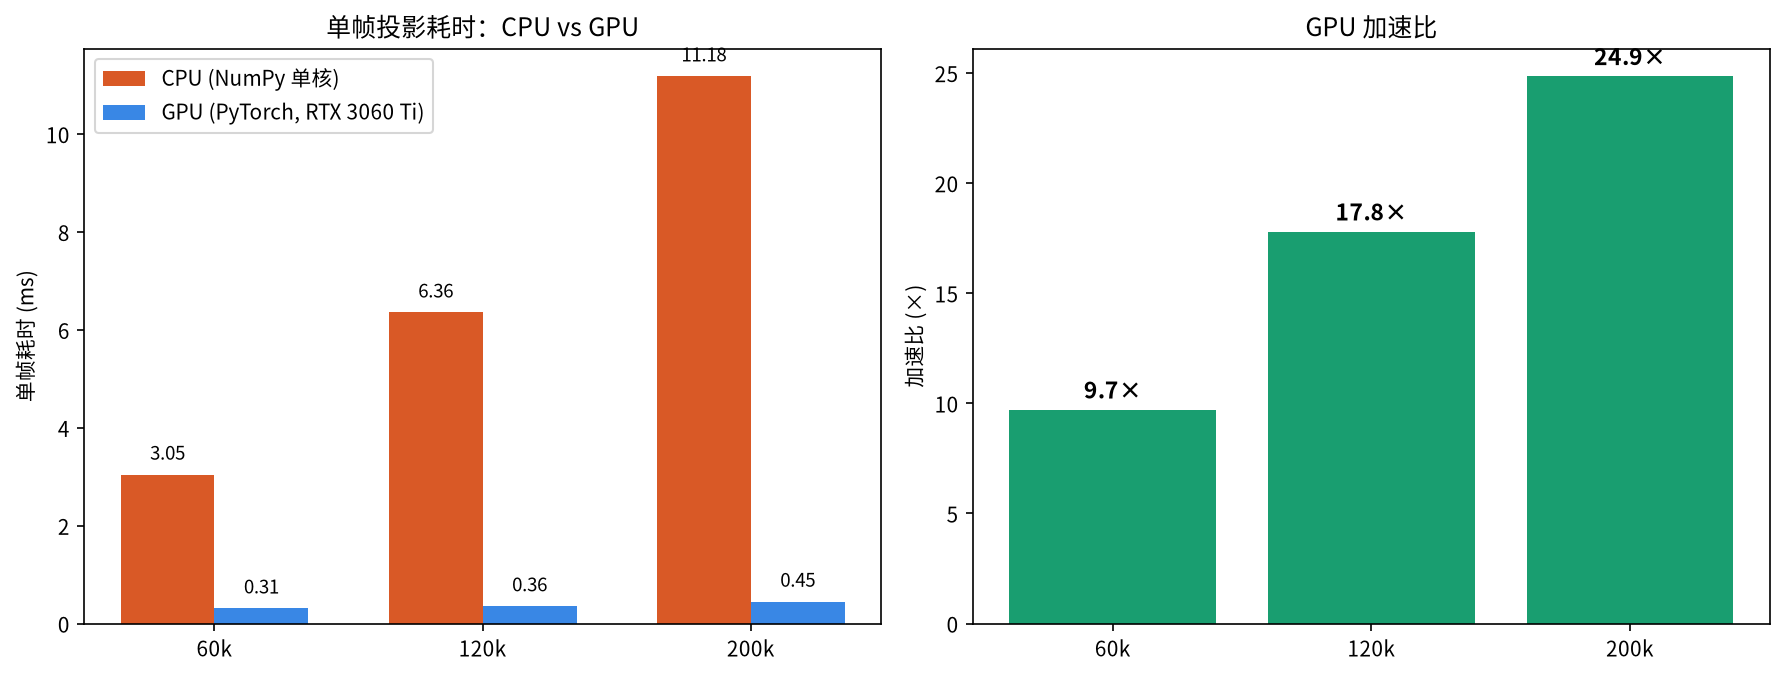
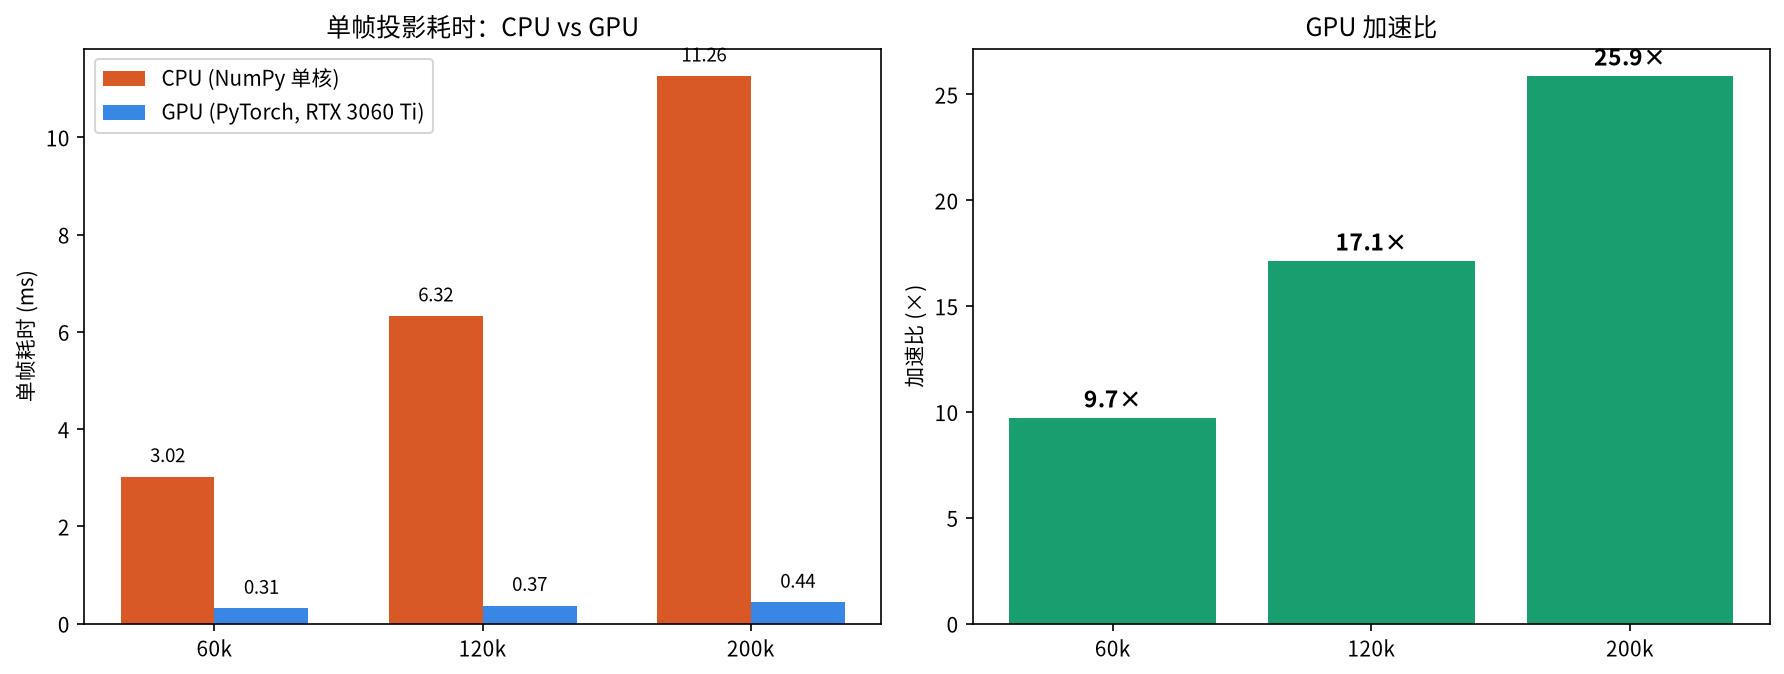
README 图片链接加版本参数，绕过 CDN 缓存

diff --git a/README.md b/README.md
@@ -5,7 +5,7 @@
 
 ## 📊 性能实测（RTX 3060 Ti，投影图 2048×64）
 
-![加速对比图](speedup.png)
+![加速对比图](speedup.png?v=2)
 
 | 点数/帧 | CPU（NumPy 单核） | GPU（PyTorch） | 加速比 |
 |---|---|---|---|
